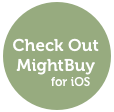
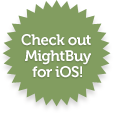
add new iphone bubble and make small design related changes

diff --git a/app/assets/stylesheets/welcomes.css.scss b/app/assets/stylesheets/welcomes.css.scss
@@ -51,11 +51,14 @@
       margin-top: 20px;
       font-size: 18px;
       color: #6B5244;
+      width: 430px;             /* hack to make content look better! */
+      line-height: 24px;
     }
 
     a {
       text-decoration: none;
-      color: black;
+      color: #4E3227;
+      font-weight: bold;
     }
   }
 
